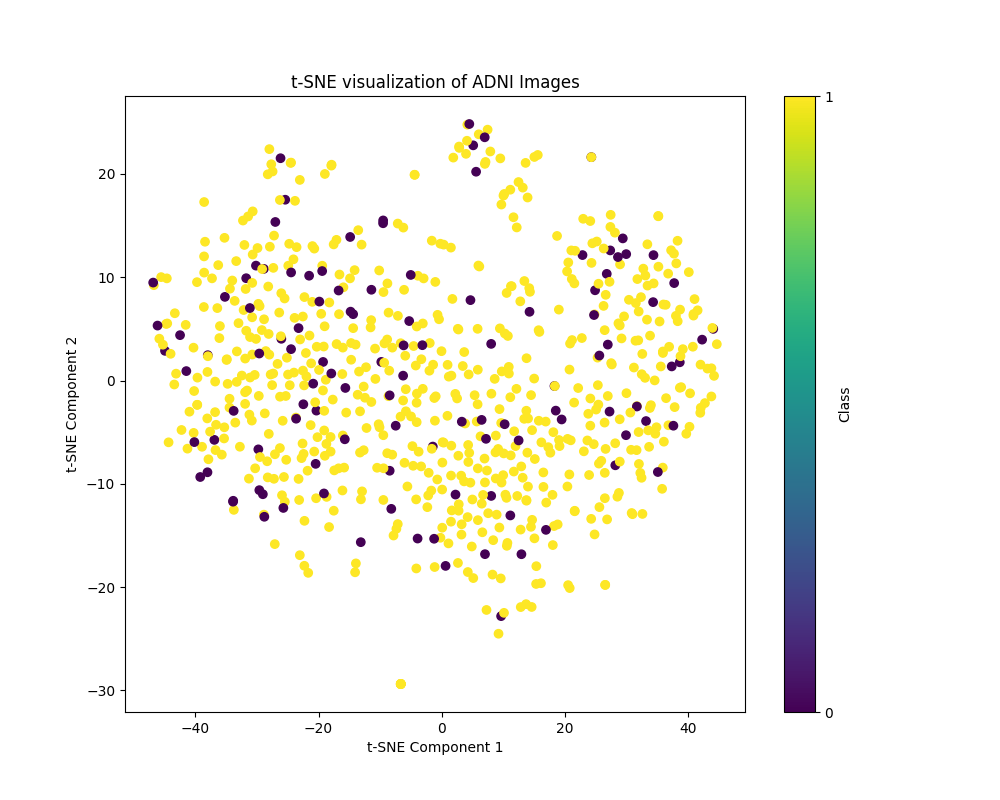
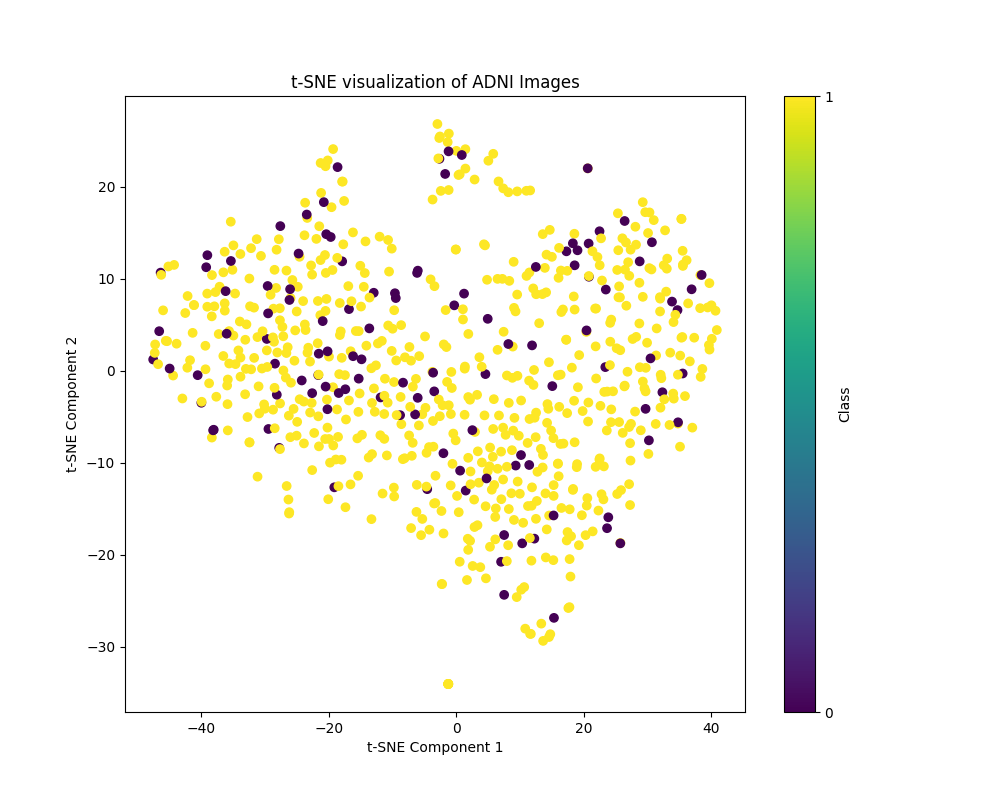
Added tsne functon to utils. Downsized batch_size to 64 for space.

diff --git a/recognition/Denoising_Diffusion_ADNI_46966159/utils.py b/recognition/Denoising_Diffusion_ADNI_46966159/utils.py
@@ -1,5 +1,7 @@
 import torch
 import matplotlib.pyplot as plt
+from sklearn.manifold import TSNE
+from timm.utils import ModelEmaV3
 import modules, dataset
 
 def add_noise(image, beta, t):
@@ -46,5 +48,39 @@ def plot_forward_process(data_loader,  timesteps=5):
 
     plt.show()
 
-ddpm_scheduler = modules.DiffusionScheduler(num_time_steps=1000)
-plot_forward_process(dataset.dataloader)
+def tsne():
+    dataloader = dataset.dataloader
+    checkpoint = torch.load("ddpm_checkpoint")
+    model = modules.UNET()
+    model.load_state_dict(checkpoint['weights'])
+    ema = ModelEmaV3(model, decay=0.9999)
+    ema.load_state_dict(checkpoint['ema'])
+
+    features = []
+    labels = []
+
+    with torch.no_grad():  # Disable gradient calculation
+        for images, label in dataloader:
+            output = model(images).view(images.size(0), -1)  # Flatten output
+            features.append(output)
+            labels.append(label)
+
+    features = torch.cat(features).numpy()  # Convert to NumPy
+    labels = torch.cat(labels).numpy()  # Convert to NumPy
+
+
+    tsne = TSNE(n_components=2, random_state=42)
+    tsne_results = tsne.fit_transform(features)
+
+    plt.figure(figsize=(10, 8))
+    scatter = plt.scatter(tsne_results[:, 0], tsne_results[:, 1], c=labels)
+    plt.colorbar(scatter, ticks=[0, 1], label='Class')
+    plt.title('t-SNE visualization of ADNI Images')
+    plt.xlabel('t-SNE Component 1')
+    plt.ylabel('t-SNE Component 2')
+    plt.show()
+    plt.savefig("tsne.png")
+
+# ddpm_scheduler = modules.DiffusionScheduler(num_time_steps=1000)
+# plot_forward_process(dataset.dataloader)
+tsne()

diff --git a/recognition/Denoising_Diffusion_ADNI_46966159/dataset.py b/recognition/Denoising_Diffusion_ADNI_46966159/dataset.py
@@ -9,7 +9,7 @@ from tqdm import tqdm
 dataroot = "/home/lgmoak/Nextcloud/University/Courses/COMP3710/Assessment/PatternAnalysis-2024/recognition/Denoising_Diffusion_ADNI_46966159/ADNI"
 
 # chosen hyperparameters
-batch_size = 128
+batch_size = 64
 image_size = 64
 
 # normalise, resize images and randomly flip

diff --git a/recognition/Denoising_Diffusion_ADNI_46966159/README.md b/recognition/Denoising_Diffusion_ADNI_46966159/README.md
@@ -134,6 +134,8 @@ found. Finally, the images were normalised and then converted to a tensor.
 An example batch of training images is displayed below.
 ![training_img.png](figures/training_img.png)
 
+![forward_process.png](figures/forward_process.png)
+
 $`t`$-distributed stochastic neighbor embeddings is a non-linear dimensionality reduction technique
 used to visualise high-dimensional data[^4]. $`t`$-SNE measures similarity between data points by joint
 probabilities and then attempts to minimise the KL-divergence between the joint probabilities
